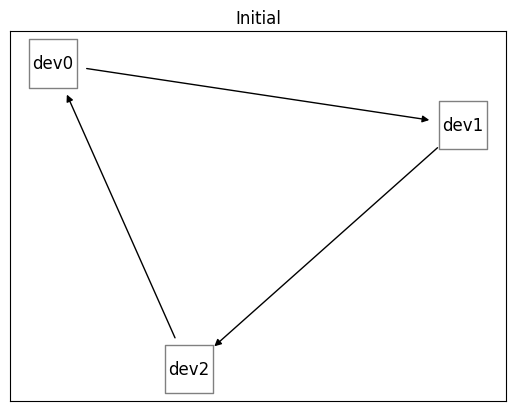
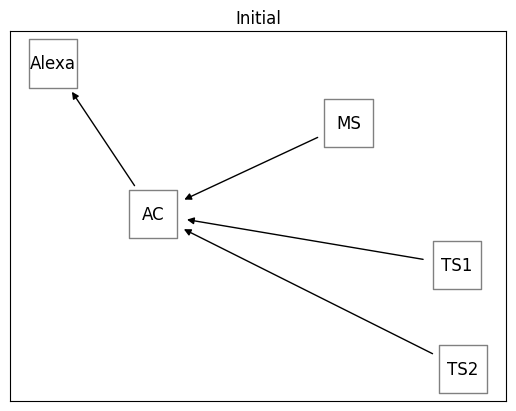
add smart home example use case

diff --git a/tests/simulator/test_simulation_model_three_devices.py b/tests/simulator/test_simulation_model_three_devices.py
@@ -24,156 +24,213 @@ def test_default_app():
     network_model = NetworkModel_V0_0()
 
     device_0 = {
-        "device_name": "dev0",
-        "cores": {
-            "core_0": {
-                "frequency": 1,
-                "active_energy": 5,
-                "idle_energy": 1,
-            }
-        },
-        "peripherals": {
-            "comm_0": {
-                "active_energy": 20,
-                "idle_energy": 2,
+            "device_name": "AC",
+            "cores": {
+                "core_0": {
+                    "frequency": 1,
+                    "active_energy": 5,
+                    "idle_energy": 1,
+                }	
             },
-        },
-        "schedule": {
-            "core_0": [
-                {
-                    "task_name": "send_message_to_dev1",
-                    "duration": 20,
-                    "dependencies": [],
-                    "outputs": {
-                        "message_0": ["dev1"]
-                    },
-                    "hw": ["comm_0"]
+            "peripherals": {
+                "gpio": {
+                    "active_energy": 100,
+                    "idle_energy": 15,
                 },
-                {
-                    "task_name": "send_message_to_dev1",
-                    "duration": 10,
-                    "dependencies": ["message_2"],
-                    "outputs": {
-                        "message_3": ["dev1"]
+            "modem": {
+                "active_energy": 50,
+                "idle_energy": 10,
+            }
+            },
+            "schedule": {
+                "core_0": [
+                    {
+                        "task_name": "Read Sensors",
+                        "duration": 3,
+                        "dependencies": ["t1", "t2", "motion"],
+                        "outputs": {
+                            "adc_measured": ["AC"],
+                        },
+                        "hw": []
                     },
-                    "hw": ["comm_0"]
-                },
-                {
-                    "task_name": "send_message_to_dev1",
-                    "duration": 2,
-                    "dependencies": ["message_5"],
-                    "outputs": {
-                        "message_6": ["dev1"]
+                    {
+                        "task_name": "Turn On AC",
+                        "duration": 6,
+                        "dependencies": ["adc_measured"],
+                        "outputs": {
+                            "broadcast": ["Alexa"]
+                        },
+                        "hw": ["gpio", "modem"]
                     },
-                    "hw": ["comm_0"]
-                },
-            ]
-        },
-        "supply_id": "supply_0"
-    }
+                    {
+                        "task_name": "Turn Off AC",
+                        "duration": 20,
+                        "dependencies": [],
+                        "outputs": {},
+                        "hw": []
+                    }
+                ]
+            },
+            "supply_id": "supply_0"
+        }
+
     device_1 = {
-        "device_name": "dev1",
-        "cores": {
-            "core_0": {
-                "frequency": 2,
-                "active_energy": 5,
-                "idle_energy": 1,
-            }
-        },
-        "peripherals": {
-            "comm_0": {
-                "active_energy": 25,
-                "idle_energy": 5,
+            "device_name": "TS1",
+            "cores": {
+                "core_0": {
+                    "frequency": 1,
+                    "active_energy": 5,
+                    "idle_energy": 3,
+                }	
             },
-        },
-        "schedule": {
-            "core_0": [
-                {
-                    "task_name": "send_message_to_dev2",
-                    "duration": 8,
-                    "dependencies": ["message_0"],
-                    "outputs": {
-                        "message_1": ["dev2"]
+            "peripherals": {
+                "adc": {
+                    "active_energy": 5,
+                    "idle_energy": 3,
+                }
+            },
+            "schedule": {
+                "core_0": [
+                    {
+                        "task_name": "Sense Temperature",
+                        "duration": 1,
+                        "dependencies": [],
+                        "outputs": {
+                            "t1": ["AC"],
+                        },
+                        "hw": ["adc",]
                     },
-                    "hw": ["comm_0"]
-                },
-                {
-                    "task_name": "send_message_to_dev2",
-                    "duration": 5,
-                    "dependencies": ["message_3"],
-                    "outputs": {
-                        "message_4": ["dev2"]
-                    },
-                    "hw": ["comm_0"]
-                },
-                {
-                    "task_name": "send_message_to_dev2",
-                    "duration": 3,
-                    "dependencies": ["message_6"],
-                    "outputs": {
-                        "message_7": ["dev2"]
-                    },
-                    "hw": ["comm_0"]
-                },
-            ]
-        },
-        "supply_id": "supply_0"
-    }
+                    {
+                        "task_name": "Idle",
+                        "duration": 5,
+                        "dependencies": [""],
+                        "outputs": {},
+                        "hw": [""]
+                    }
+                ]
+            },
+            "supply_id": "supply_0"
+        }
+
     device_2 = {
-        "device_name": "dev2",
-        "cores": {
-            "core_0": {
-                "frequency": 1,
-                "active_energy": 5,
-                "idle_energy": 1,
-            }
-        },
-        "peripherals": {
-            "comm_0": {
-                "active_energy": 10,
-                "idle_energy": 1,
+            "device_name": "TS2",
+            "cores": {
+                "core_0": {
+                    "frequency": 1,
+                    "active_energy": 5,
+                    "idle_energy": 3,
+                }	
             },
-        },
-        "schedule": {
-            "core_0": [
-                {
-                    "task_name": "send_message_to_dev0",
-                    "duration": 10,
-                    "dependencies": ["message_1"],
-                    "outputs": {
-                        "message_2": ["dev0"]
+            "peripherals": {
+                "adc": {
+                    "active_energy": 5,
+                    "idle_energy": 3,
+                }
+            },
+            "schedule": {
+                "core_0": [
+                    {
+                        "task_name": "Sense Temperature",
+                        "duration": 1,
+                        "dependencies": [],
+                        "outputs": {
+                            "t2": ["AC"],
+                        },
+                        "hw": ["adc"]
                     },
-                    "hw": ["comm_0"]
-                },
-                {
-                    "task_name": "send_message_to_dev0",
-                    "duration": 5,
-                    "dependencies": ["message_4"],
-                    "outputs": {
-                        "message_5": ["dev0"]
+                    {
+                        "task_name": "Idle",
+                        "duration": 5,
+                        "dependencies": [""],
+                        "outputs": {},
+                        "hw": [""]
+                    }
+                ]
+            },
+            "supply_id": "supply_0"
+        }
+
+    device_5 = {
+            "device_name": "Alexa",
+            "cores": {
+                "core_0": {
+                    "frequency": 1,
+                    "active_energy": 5,
+                    "idle_energy": 2,
+                }	
+            },
+            "peripherals": {
+                "dac": {
+                    "active_energy": 20,
+                    "idle_energy": 5,
+                }
+            },
+            "schedule": {
+                "core_0": [
+                    {
+                        "task_name": "AC Announcement",
+                        "duration": 5,
+                        "dependencies": ["broadcast"],
+                        "outputs": {},
+                        "hw": ["dac"]
                     },
-                    "hw": ["comm_0"]
-                },
-                {
-                    "task_name": "send_message_to_dev0",
-                    "duration": 2,
-                    "dependencies": ["message_7"],
-                    "outputs": {
-                        "message_8": ["dev0"]
+                    {
+                        "task_name": "Idle",
+                        "duration": 5,
+                        "dependencies": [""],
+                        "outputs": {},
+                        "hw": [""]
+                    }
+                ]
+            },
+            "supply_id": "supply_0"
+        }
+
+    device_6 = {
+            "device_name": "MS",
+            "cores": {
+                "core_0": {
+                    "frequency": 1,
+                    "active_energy": 5,
+                    "idle_energy": 3,
+                }	
+            },
+            "peripherals": {
+                "adc": {
+                    "active_energy": 8,
+                    "idle_energy": 3,
+                }
+            },
+            "schedule": {
+                "core_0": [
+                    {
+                        "task_name": "Motion Sensing",
+                        "duration": 1,
+                        "dependencies": [],
+                        "outputs": {
+                            "motion": ["AC"],
+                        },
+                        "hw": ["adc"]
                     },
-                    "hw": ["comm_0"]
-                },
-            ]
-        },
-        "supply_id": "supply_0"
-    }
+                    {
+                        "task_name": "Idle",
+                        "duration": 5,
+                        "dependencies": [""],
+                        "outputs": {},
+                        "hw": [""]
+                    }
+                ]
+            },
+            "supply_id": "supply_0"
+        }
+
     supply_0 = {
         "supply_name": "supply_0",
         "supply_voltage": 5.0,
         "max_supply_current": 5.0
     }
 
-    devices = [device_0, device_1, device_2]
+    devices = [device_0, device_1, device_2, device_5, device_6]
     for device in devices:
         app_model.add_device(device["device_name"], device)
         energy_model.add_device(device["device_name"], device)

diff --git a/src/energy_model/energy_model_interface.py b/src/energy_model/energy_model_interface.py
@@ -40,15 +40,15 @@ class EnergyModelInterface:
         if len(self._devices.keys()) > 1:
             for ax, device_id in zip(self._axs, self._devices.keys()):
                 ax.set_xlabel("Time (cycles)")
-                ax.set_ylabel("Energy Usage (J)")
-                ax.set_title(f"Device {device_id} Energy Consumption Over Time")
+                ax.set_ylabel("Power Usage (W)")
+                ax.set_title(f"Device {device_id} Power Consumption Over Time")
                 self._devices[device_id]["ax"] = ax
         else:
             ax = self._axs
             device_id = list(self._devices.keys())[0]
             ax.set_xlabel("Time (cycles)")
-            ax.set_ylabel("Energy Usage (J)")
-            ax.set_title(f"Device {device_id} Energy Consumption Over Time")
+            ax.set_ylabel("Power Usage (W)")
+            ax.set_title(f"Device {device_id} Power Consumption Over Time")
             self._devices[device_id]["ax"] = ax
             self._axs = ax
 
